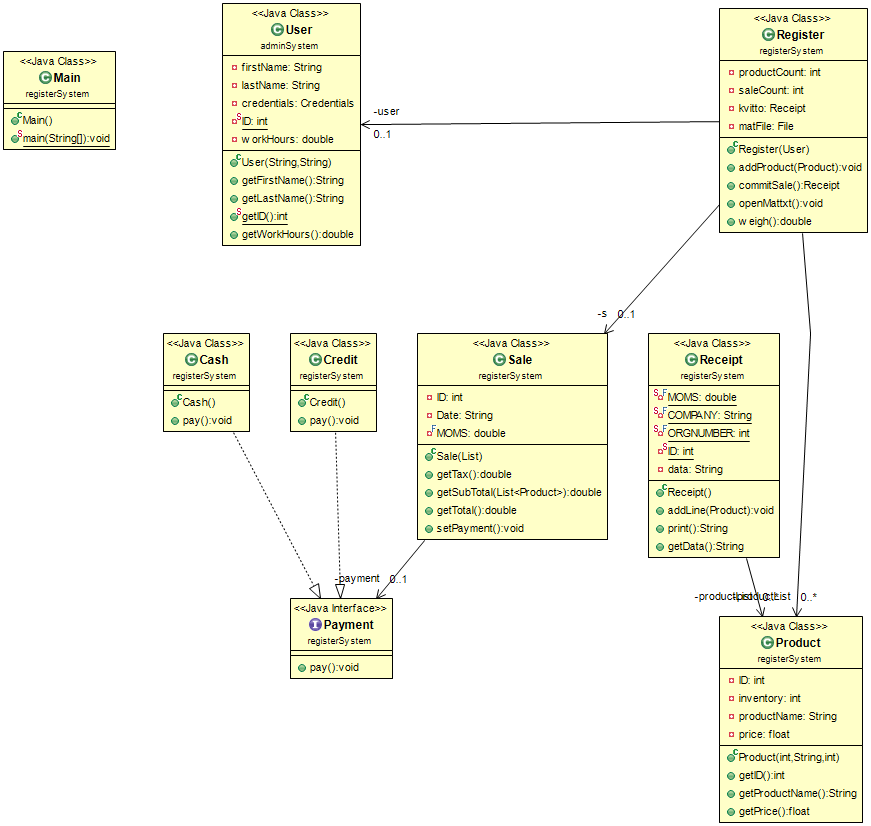
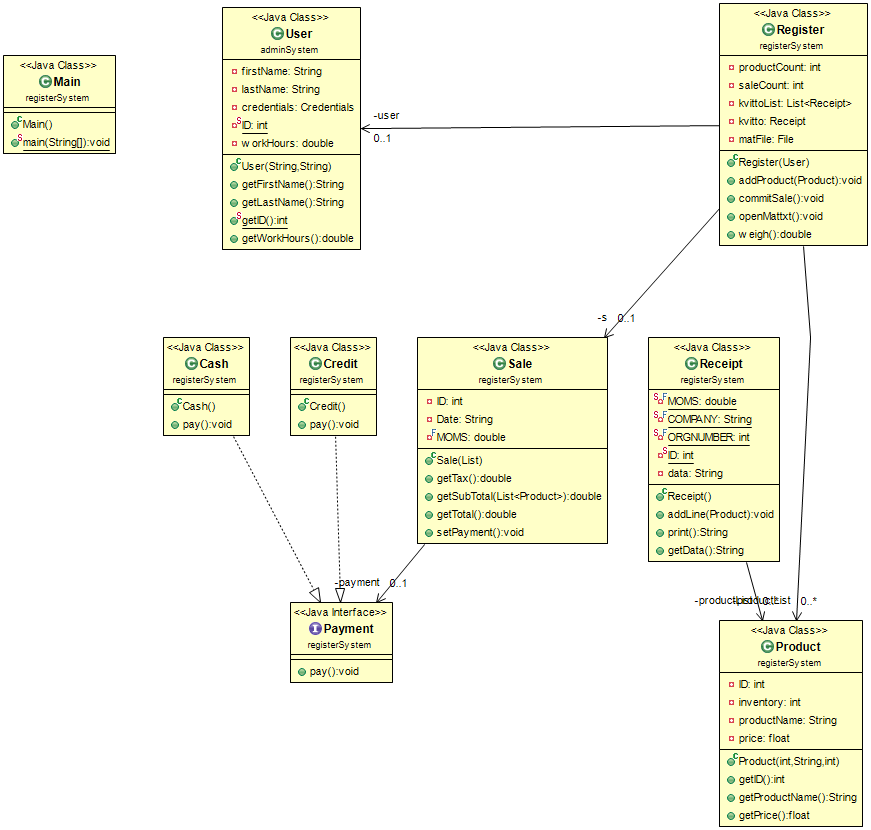
Can create receipts with unique products

diff --git a/Cashier/registerSystem/Register.java b/Cashier/registerSystem/Register.java
@@ -16,8 +16,8 @@ public class Register {
 	private int saleCount = 0;
 	
 	private List <Product> productList = new ArrayList<Product>();
-	//private List<Receipt> kvittoList = new ArrayList<Receipt>();
-	private Receipt kvitto;
+	private List<Receipt> kvittoList = new ArrayList<Receipt>();
+//	private Receipt kvitto;
 	private Sale s = new Sale(productList);
 	private File matFile = new File("Cashier/resource/mat.txt");
 	
@@ -26,21 +26,23 @@ public class Register {
 	
 	public Register(User u) {
 		this.user = u;
-		kvitto = new Receipt();
+		kvittoList.add(new Receipt());
 	}
 	
 	public void addProduct(Product p) {
 		productList.add(p);
-		kvitto.addLine(p);
+		kvittoList.get(saleCount).addLine(p);
 	}
 	
 		
-	public Receipt commitSale() {
+	public List commitSale() {
 		//TRANSAKTION
 		//add sale to sale report system, remove product from lager, and add to ~ salereport. ~ 
+		kvittoList.add(new Receipt());
 		
-		
-		return kvitto;
+		saleCount++;
+	//	return kvitto;
+		return kvittoList;
 	}
 	
 	public void openMattxt() {

diff --git a/Cashier/registerSystem/Main.java b/Cashier/registerSystem/Main.java
@@ -29,8 +29,9 @@ public class Main {
 		//	System.out.println(test.getData());
 			if(test.getData().equals("00")) {
 	//			kassan
+		//		kassan.commitSale();
 				test.setData();
-				receiptList.add(kassan.commitSale());
+				receiptList = kassan.commitSale();
 			}
 			else if(test.getData().equals("10")) {
 				test.setData();
@@ -45,7 +46,7 @@ public class Main {
 		
 		for(int i = 0; i < receiptList.size(); i++) {
 	//		System.out.println(receiptList.size());
-	//		System.out.println(receiptList.get(i).getData());
+			System.out.println(receiptList.get(i).getData());
 		}
 		
 		test.destroy(); 

diff --git a/Cashier/registerSystem/Receipt.java b/Cashier/registerSystem/Receipt.java
@@ -34,9 +34,11 @@ public class Receipt {
 		return data;
 
 	}
-	
+
 	public String getData() {
+		// TODO Auto-generated method stub
 		return data;
 	}
+
 
 }
